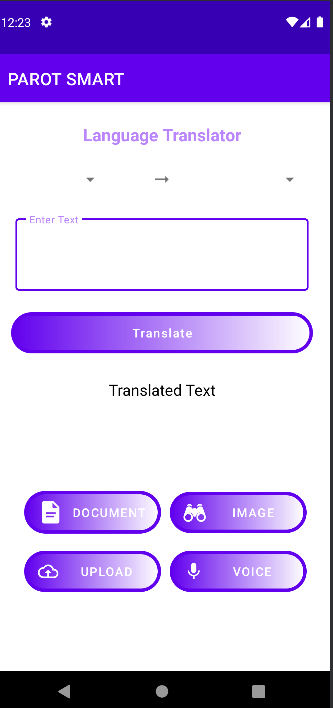
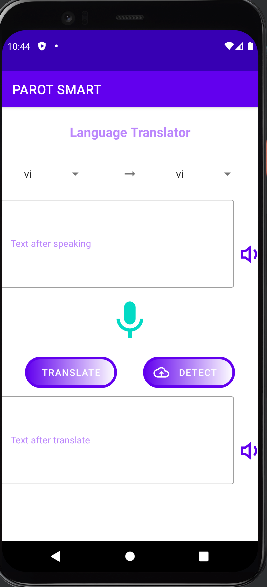
realtime

diff --git a/app/src/main/java/hcmute/edu/vn/MainActivity.java b/app/src/main/java/hcmute/edu/vn/MainActivity.java
@@ -66,7 +66,7 @@ public class MainActivity extends AppCompatActivity {
         iv_mic.setOnClickListener(new View.OnClickListener() {
             @Override
             public void onClick(View v) {
-                speak();
+                speak(source);
             }
         });
 
@@ -229,10 +229,10 @@ public class MainActivity extends AppCompatActivity {
             });
         }
     }
-    private void speak() {
+    private void speak(String source) {
         Intent intent = new Intent(RecognizerIntent.ACTION_RECOGNIZE_SPEECH);
         intent.putExtra(RecognizerIntent.EXTRA_LANGUAGE_MODEL, RecognizerIntent.LANGUAGE_MODEL_FREE_FORM);
-        intent.putExtra(RecognizerIntent.EXTRA_LANGUAGE, Locale.getDefault());
+        intent.putExtra(RecognizerIntent.EXTRA_LANGUAGE, source);
         intent.putExtra(RecognizerIntent.EXTRA_PROMPT, "Please Speaking");
 
         try {

diff --git a/README.md b/README.md
@@ -2,17 +2,19 @@
 ## I/Mô tả ứng dụng
 * **Tên ứng dụng** : Dịch văn bản
 * **Mô tả** : Ứng dụng Dịch Văn bản là một ứng dụng dịch đa ngôn ngữ được phát triển để hỗ trợ người dùng dịch văn bản, giọng nói, đoạn text copy và file, lưu lịch sử tra cứu, chia sẻ văn bản dịch và dịch ảnh.
- ### Chức năng:
+* **Chức năng**:
 * **Dịch giọng nói/ văn bản** : Cho phép người dùng dịch giọng nói / văn bản từ ngôn ngữ gốc sang ngôn ngữ đích. Người dùng có thể chọn ngôn ngữ đầu vào và đầu ra để dịch.
-* **Dịch trực tiếp bằng camera**: Cho phép người dùng dịch đoạn văn bản được sao chép từ ứng dụng khác. Người dùng có thể copy đoạn vừa dịch , share text cho ứng dụng khác 
+* **Dịch đoạn text copy**: Cho phép người dùng dịch đoạn văn bản được sao chép từ ứng dụng khác. Người dùng có thể copy đoạn vừa dịch , share text cho ứng dụng khác .
+* **Lưu lịch sử tra cứu**: Ứng dụng sẽ lưu lại lịch sử các câu dịch đã được thực hiện để người dùng có thể dễ dàng tra cứu lại sau này.
+* **Dịch file**: Cho phép người dùng dịch các tập tin văn bản docx, tài liệu từ ngôn ngữ gốc  sang ngôn ngữ đích. Người dùng có thể tải lên file của mình lên ứng dụng để dịch.
 * **Dịch ảnh**: Cho phép người dùng dịch văn bản trong ảnh từ ngôn ngữ gốc sang ngôn ngữ đích. Người dùng có thể chụp ảnh hoặc tải lên ảnh của mình lên ứng dụng để dịch.
 ## II/Cấu hình ứng dụng
 * *SDK* : 30 API
 * **Dịch vụ sử dụng** :Firebase ML Kit
 * **Thư viện**: 
--ml kit translte : firse base
--ml kit vission : google
+-implementation 'com.google.android.gms:play-services-mlkit-text-recognition:16.0.0'
 ## III/DEMO APP
 <img src="github_image/home.png">
 <img src="github_image/page_voice.png">
 <img src="github_image/upload_image.png">
+<img src="github_image/camera.png">
